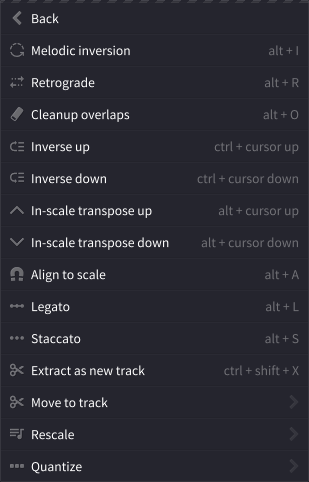
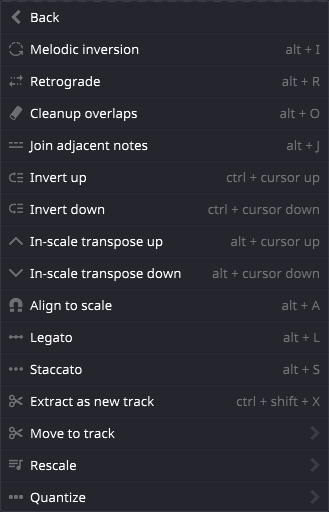
New refactoring option: join adjacent notes

diff --git a/Source/UI/Sequencer/Helpers/SequencerOperations.cpp b/Source/UI/Sequencer/Helpers/SequencerOperations.cpp
@@ -625,6 +625,85 @@ bool SequencerOperations::makeLegato(const NoteListBase &notes,
     return true;
 }
 
+bool SequencerOperations::joinAdjacent(const NoteListBase &notes,
+    bool undoable, bool shouldCheckpoint)
+{
+    jassert(undoable || !shouldCheckpoint);
+    if (notes.size() == 0)
+    {
+        return false;
+    }
+
+    auto *sequence = getPianoSequence(notes);
+    jassert(sequence);
+
+    constexpr auto threshold = Globals::minNoteLength;
+
+    Array<Note> removals;
+    Array<Note> changesBefore, changesAfter;
+    for (int i = 0; i < notes.size(); ++i)
+    {
+        const auto &note = notes.getNoteUnchecked(i);
+        if (removals.contains(note))
+        {
+            continue;
+        }
+
+        float newLength = note.getLength();
+        for (int j = i + 1; j < notes.size(); ++j)
+        {
+            const auto &other = notes.getNoteUnchecked(j);
+            if (other.getKey() != note.getKey() ||
+                other.getBeat() < note.getBeat())
+            {
+                continue;
+            }
+            
+            const auto noteEndBeat = note.getBeat() + newLength;
+            const auto distance = other.getBeat() - noteEndBeat;
+            if (distance < threshold && !removals.contains(other))
+            {
+                removals.add(other);
+
+                const auto otherEndBeat = other.getBeat() + other.getLength();
+                const auto possibleLength = otherEndBeat - note.getBeat();
+                if (possibleLength > newLength)
+                {
+                    newLength = possibleLength;
+                }
+            }
+        }
+
+        if (newLength > note.getLength())
+        {
+            changesBefore.add(note);
+            changesAfter.add(note.withLength(newLength));
+        }
+    }
+
+    if (changesBefore.isEmpty() && removals.isEmpty())
+    {
+        return false;
+    }
+
+    if (shouldCheckpoint)
+    {
+        sequence->checkpoint();
+    }
+
+    if (!changesBefore.isEmpty())
+    {
+        sequence->changeGroup(changesBefore, changesAfter, undoable);
+    }
+
+    if (!removals.isEmpty())
+    {
+        sequence->removeGroup(removals, undoable);
+    }
+
+    return true;
+}
+
 void SequencerOperations::retrograde(const NoteListBase &notes,
     bool undoable /*= true*/, bool shouldCheckpoint /*= true*/)
 {
@@ -2115,7 +2194,7 @@ KeySignatureEvent *SequencerOperations::findHarmonicContext(float startBeat,
     if (keySignatures == nullptr ||
         keySignatures->size() == 0)
     {
-        jassertfalse;
+        //jassertfalse;
         return nullptr;
     }
 
@@ -2123,7 +2202,7 @@ KeySignatureEvent *SequencerOperations::findHarmonicContext(float startBeat,
 
     for (int i = 0; i < keySignatures->size(); ++i)
     {
-        const auto event = keySignatures->getUnchecked(i);
+        auto *event = keySignatures->getUnchecked(i);
         if (context == nullptr || event->getBeat() <= startBeat)
         {
             // Take the first one no matter where it resides;

diff --git a/Source/Core/Midi/Patterns/Modifiers/RefactoringSequenceModifier.h b/Source/Core/Midi/Patterns/Modifiers/RefactoringSequenceModifier.h
@@ -35,6 +35,7 @@ public:
         MelodicInversion,
         Retrograde,
         CleanupOverlaps,
+        JoinAdjacent,
         ChordInversionUp,
         ChordInversionDown,
         InScaleTranspositionUp,
@@ -49,6 +50,7 @@ public:
         Type::MelodicInversion,
         Type::Retrograde,
         Type::CleanupOverlaps,
+        Type::JoinAdjacent,
         Type::ChordInversionUp,
         Type::ChordInversionDown,
         Type::InScaleTranspositionUp,
@@ -83,6 +85,9 @@ public:
             break;
         case Type::CleanupOverlaps:
             SequencerOperations::cleanupOverlaps(sequence, false, false);
+            break;
+        case Type::JoinAdjacent:
+            SequencerOperations::joinAdjacent(sequence, false, false);
             break;
         case Type::ChordInversionUp:
         case Type::ChordInversionDown:
@@ -130,6 +135,7 @@ public:
         switch (type)
         {
         case Type::CleanupOverlaps:
+        case Type::JoinAdjacent:
         case Type::MelodicInversion:
         case Type::Retrograde:
         case Type::Legato:
@@ -179,6 +185,8 @@ public:
             return TRANS(I18n::Menu::Refactor::retrograde);
         case Type::CleanupOverlaps:
             return TRANS(I18n::Menu::Refactor::cleanup);
+        case Type::JoinAdjacent:
+            return TRANS(I18n::Menu::Refactor::joinAdjacent);
         case Type::ChordInversionUp:
             return TRANS(I18n::Menu::Refactor::inverseUp) + stepsString;
         case Type::ChordInversionDown:
@@ -226,6 +234,8 @@ public:
             return Icons::retrograde;
         case Type::CleanupOverlaps:
             return Icons::cleanup;
+        case Type::JoinAdjacent:
+            return Icons::join;
         case Type::ChordInversionUp:
             return Icons::inverseUp;
         case Type::ChordInversionDown:
@@ -293,6 +303,7 @@ public:
         case Type::MelodicInversion:
         case Type::Retrograde:
         case Type::CleanupOverlaps:
+        case Type::JoinAdjacent:
         case Type::Legato:
         case Type::SnapToScale:
             return {};
@@ -371,6 +382,9 @@ public:
         case Type::CleanupOverlaps:
             tree.setProperty(Modifiers::refactoringType, Modifiers::refactoringCleanupOverlaps.toString());
             break;
+        case Type::JoinAdjacent:
+            tree.setProperty(Modifiers::refactoringType, Modifiers::refactoringJoinAdjacent.toString());
+            break;
         case Type::ChordInversionUp:
         case Type::ChordInversionDown:
             tree.setProperty(Modifiers::refactoringType, Modifiers::refactoringChordInversion.toString());
@@ -423,6 +437,10 @@ public:
         else if (typeId == Modifiers::refactoringCleanupOverlaps)
         {
             this->type = Type::CleanupOverlaps;
+        }
+        else if (typeId == Modifiers::refactoringJoinAdjacent)
+        {
+            this->type = Type::JoinAdjacent;
         }
         else if (typeId == Modifiers::refactoringChordInversion)
         {

diff --git a/Projects/Projucer/JuceLibraryCode/BinaryData.cpp b/Projects/Projucer/JuceLibraryCode/BinaryData.cpp
@@ -4883,14 +4883,15 @@ static const unsigned char temp_binary_data_119[] =
 "  { \"command\": \"TransposeOctaveDown\", \"key\": \"Shift + Cursor Down\" },\n"
 "  { \"command\": \"TransposeFifthUp\", \"key\": \"Shift + Alt + Cursor Up\" },\n"
 "  { \"command\": \"TransposeFifthDown\", \"key\": \"Shift + Alt + Cursor Down\" },\n"
-"  { \"command\": \"MakeStaccato\", \"key\": \"Alt + S\" },\n"
-"  { \"command\": \"MakeStaccatissimo\", \"key\": \"Shift + Alt + S\" },\n"
-"  { \"command\": \"MakeLegato\", \"key\": \"Alt + L\" },\n"
 "\n"
 "  // Refactor selection\n"
 "  { \"command\": \"Retrograde\", \"key\": \"Alt + R\" },\n"
 "  { \"command\": \"MelodicInversion\", \"key\": \"Alt + I\" },\n"
 "  { \"command\": \"CleanupOverlaps\", \"key\": \"Alt + O\" },\n"
+"  { \"command\": \"JoinAdjacent\", \"key\": \"Alt + J\" },\n"
+"  { \"command\": \"MakeLegato\", \"key\": \"Alt + L\" },\n"
+"  { \"command\": \"MakeStaccato\", \"key\": \"Alt + S\" },\n"
+"  { \"command\": \"MakeStaccatissimo\", \"key\": \"Shift + Alt + S\" },\n"
 "  { \"command\": \"AlignToScale\", \"key\": \"Alt + A\" },\n"
 "  { \"command\": \"NotesVolumeUp\", \"key\": \"=\" },\n"
 "  { \"command\": \"NotesVolumeUp\", \"key\": \"Shift + =\" },\n"
@@ -5702,7 +5703,7 @@ const char* getNamedResource (const char* resourceNameUTF8, int& numBytes)
         case 0xb278622d:  numBytes = 64; return arpeggiators_json;
         case 0xd1d24c90:  numBytes = 768; return chords_json;
         case 0x41b35b05:  numBytes = 4298; return colourSchemes_json;
-        case 0x25669f2b:  numBytes = 24946; return hotkeySchemes_json;
+        case 0x25669f2b:  numBytes = 24997; return hotkeySchemes_json;
         case 0xfd7446db:  numBytes = 792; return keyboardMappings_json;
         case 0x496315fd:  numBytes = 933; return meters_json;
         case 0x048f5efe:  numBytes = 13262; return scales_json;

diff --git a/Source/UI/Common/CommandIDs.cpp b/Source/UI/Common/CommandIDs.cpp
@@ -151,6 +151,7 @@ CommandIDs::Id CommandIDs::getIdForName(const String &command)
         CASE_FOR(MakeStaccatissimo)
         CASE_FOR(MakeLegato)
         CASE_FOR(MakeLegatoOverlapping)
+        CASE_FOR(JoinAdjacent)
         CASE_FOR(ViewportPanLeft)
         CASE_FOR(ViewportPanRight)
         CASE_FOR(ViewportPanUp)
@@ -406,6 +407,7 @@ I18n::Key CommandIDs::getTranslationKeyFor(CommandIDs::Id id)
         //TRANS_NONE(MakeStaccatissimo)
         TRANS_KEY(MakeLegato, Menu::Refactor::legato)
         //TRANS_NONE(MakeLegatoOverlapping)
+        TRANS_KEY(JoinAdjacent, Menu::Refactor::joinAdjacent)
         //TRANS_NONE(ViewportPanLeft)
         //TRANS_NONE(ViewportPanRight)
         //TRANS_NONE(ViewportPanUp)

diff --git a/Source/UI/Menus/SelectionMenus/PianoRollSelectionMenu.cpp b/Source/UI/Menus/SelectionMenus/PianoRollSelectionMenu.cpp
@@ -150,6 +150,9 @@ MenuPanel::Menu PianoRollSelectionMenu::makeRefactoringMenu() noexcept
     menu.add(MenuItem::item(Icons::cleanup, CommandIDs::CleanupOverlaps,
         TRANS(I18n::Menu::Refactor::cleanup))->disabledIf(hasSingleNote)->closesMenu());
 
+    menu.add(MenuItem::item(Icons::join, CommandIDs::JoinAdjacent,
+        TRANS(I18n::Menu::Refactor::joinAdjacent))->disabledIf(hasSingleNote)->closesMenu());
+
     menu.add(MenuItem::item(Icons::inverseUp, CommandIDs::InvertChordUp,
         TRANS(I18n::Menu::Refactor::inverseUp))->closesMenu());
 

diff --git a/Source/UI/Sequencer/Helpers/SequencerOperations.h b/Source/UI/Sequencer/Helpers/SequencerOperations.h
@@ -124,6 +124,8 @@ struct SequencerOperations final
         float newLength, bool undoable = true, bool shouldCheckpoint = true);
     static bool makeLegato(const NoteListBase &notes,
         float overlap, bool undoable = true, bool shouldCheckpoint = true);
+    static bool joinAdjacent(const NoteListBase &notes,
+        bool undoable = true, bool shouldCheckpoint = true);
 
     static bool quantize(const NoteListBase &notes, float bar,
         bool undoable = true, bool shouldCheckpoint = true);

diff --git a/Source/UI/Sequencer/PianoRoll/PianoRoll.cpp b/Source/UI/Sequencer/PianoRoll/PianoRoll.cpp
@@ -1639,6 +1639,9 @@ void PianoRoll::handleCommandMessage(int commandId)
     case CommandIDs::MakeLegatoOverlapping:
         SequencerOperations::makeLegato(this->getLassoOrEntireSequence(), Globals::minNoteLength);
         break;
+    case CommandIDs::JoinAdjacent:
+        SequencerOperations::joinAdjacent(this->getLassoOrEntireSequence());
+        break;
     case CommandIDs::CleanupOverlaps:
         SequencerOperations::cleanupOverlaps(this->getLassoOrEntireSequence());
         break;

diff --git a/Source/UI/Menus/ClipMenu.cpp b/Source/UI/Menus/ClipMenu.cpp
@@ -154,6 +154,9 @@ MenuPanel::Menu ClipMenu::makeRefactoringMenu() noexcept
     menu.add(MenuItem::item(Icons::cleanup, CommandIDs::CleanupOverlaps,
         TRANS(I18n::Menu::Refactor::cleanup))->closesMenu());
 
+    menu.add(MenuItem::item(Icons::join, CommandIDs::JoinAdjacent,
+        TRANS(I18n::Menu::Refactor::joinAdjacent))->closesMenu());
+
     menu.add(MenuItem::item(Icons::inverseUp, CommandIDs::InvertChordUp,
         TRANS(I18n::Menu::Refactor::inverseUp))->closesMenu());
 

diff --git a/Source/UI/Common/CommandIDs.h b/Source/UI/Common/CommandIDs.h
@@ -244,6 +244,7 @@ namespace CommandIDs
         MakeStaccatissimo               = 0x4602, // make notes very short
         MakeLegato                      = 0x4603, // connect notes in time
         MakeLegatoOverlapping           = 0x4604, // connect notes together, but with a slight overlap for use in certain VSTs
+        JoinAdjacent                    = 0x4605,
 
         CommandPaletteClear             = 0x4700,
         CommandPaletteDismiss           = 0x4701,

diff --git a/Source/Core/Serialization/SerializationKeys.h b/Source/Core/Serialization/SerializationKeys.h
@@ -161,6 +161,7 @@ namespace Serialization
         static const Identifier refactoringLegato = "legato";
         static const Identifier refactoringStaccato = "staccato";
         static const Identifier refactoringCleanupOverlaps = "cleanup";
+        static const Identifier refactoringJoinAdjacent = "joinAdjacent";
 
         static const Identifier arpeggiationSpeed = "speed";
     } // namespace Modifiers

diff --git a/Projects/Projucer/JuceLibraryCode/BinaryData.h b/Projects/Projucer/JuceLibraryCode/BinaryData.h
@@ -366,7 +366,7 @@ namespace BinaryData
     const int            colourSchemes_jsonSize = 4298;
 
     extern const char*   hotkeySchemes_json;
-    const int            hotkeySchemes_jsonSize = 24946;
+    const int            hotkeySchemes_jsonSize = 24997;
 
     extern const char*   keyboardMappings_json;
     const int            keyboardMappings_jsonSize = 792;

diff --git a/Docs/refactoring.md b/Docs/refactoring.md
@@ -30,6 +30,14 @@ The retrograde hotkey also works in the pattern roll, re-ordering all selected c
 
 The `Alt + O` hotkey removes duplicate notes and corrects lengths in a way that notes do not overlap.
 
+### Join adjacent notes
+
+The `Alt + J` hotkey merges adjacent and overlapping notes.
+
+My typical use case is connecting several neighbour chords:
+
+![join-adjacent-notes]
+
 ## Transposition and inversion
 
 Not listed in the menu, but also handy: the `Shift + Up` and `Shift + Down` hotkeys transpose the selected notes one octave up or down.
@@ -125,3 +133,4 @@ To delete an arpeggiator, manually edit your [arpeggiators.json](configs.md#user
 [quick-rescale-mobile]: images/quick-rescale-mobile.png "The quick rescale tool on mobile"
 [quick-rescale-desktop]: images/quick-rescale-desktop.png "The quick rescale tool on desktop"
 [staccato-legato]: images/staccato-legato.png "Staccato and legato shortcuts"
+[join-adjacent-notes]: images/join-adjacent-notes.png "Joining adjacent notes"
